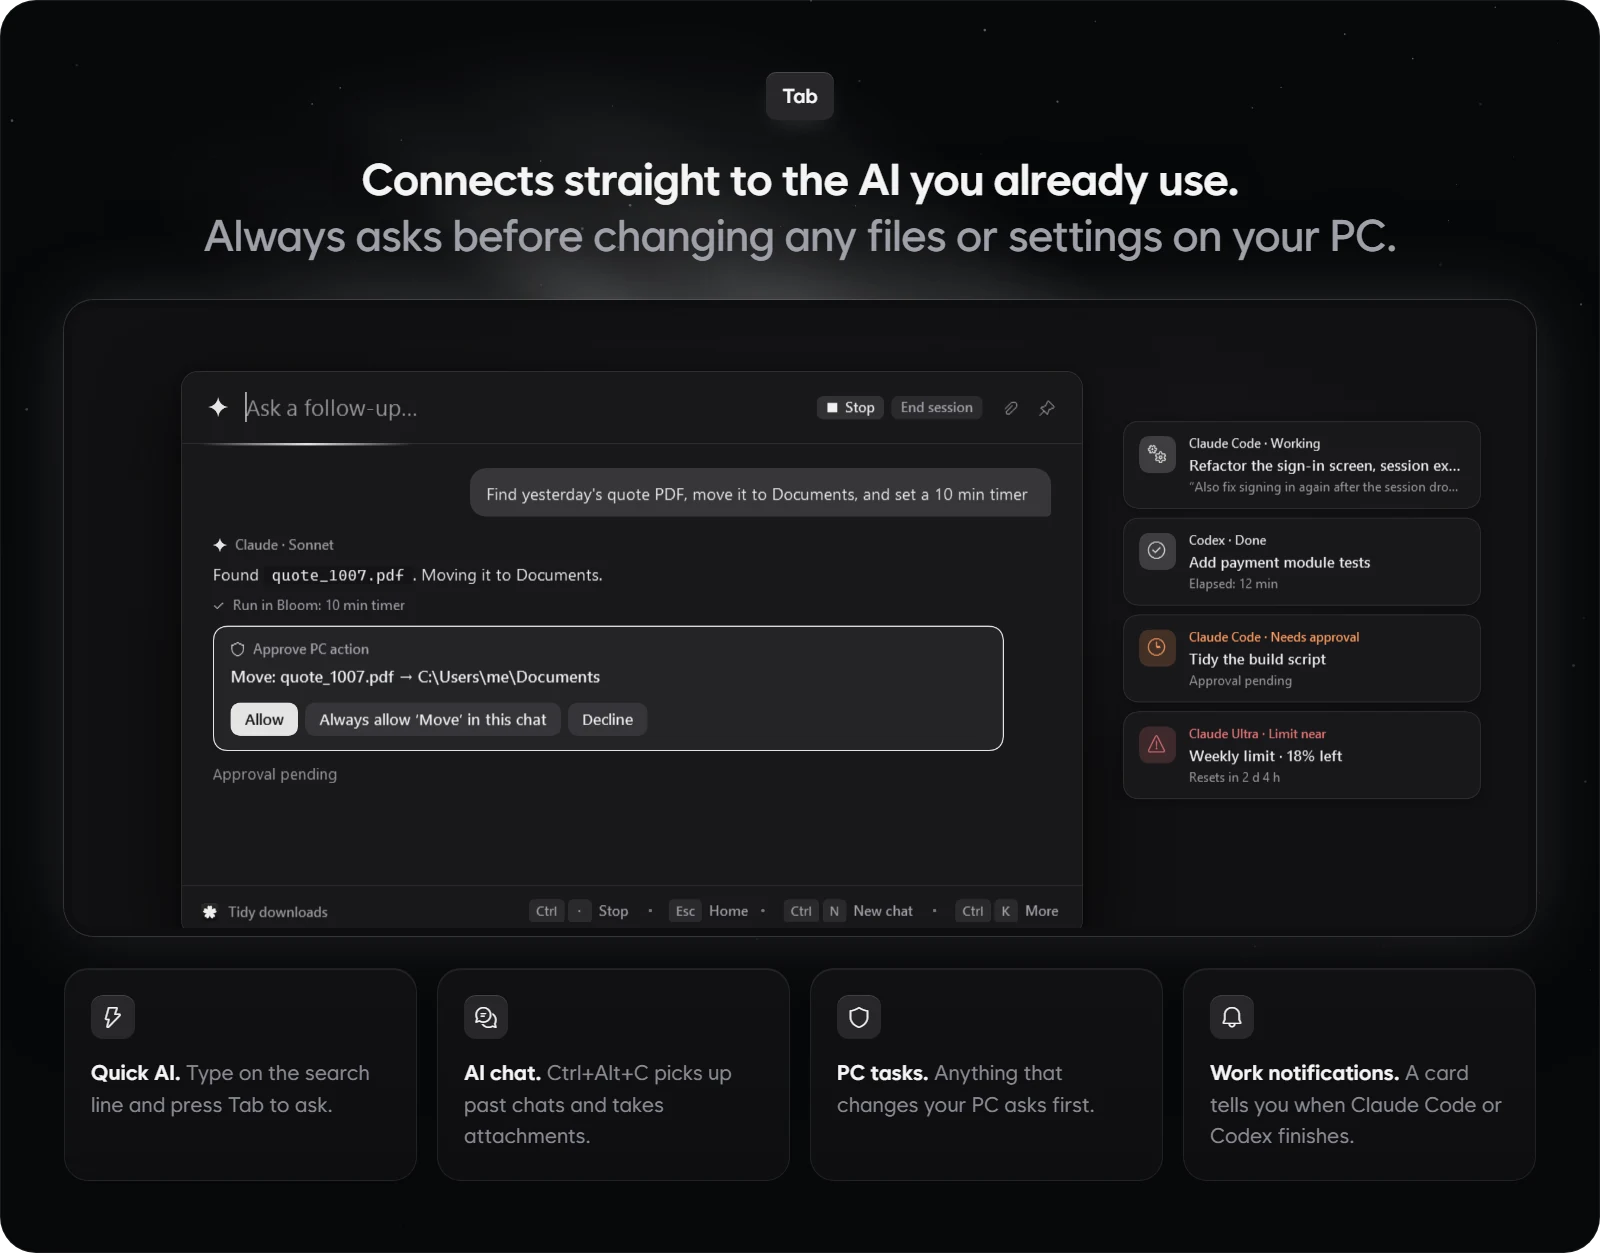
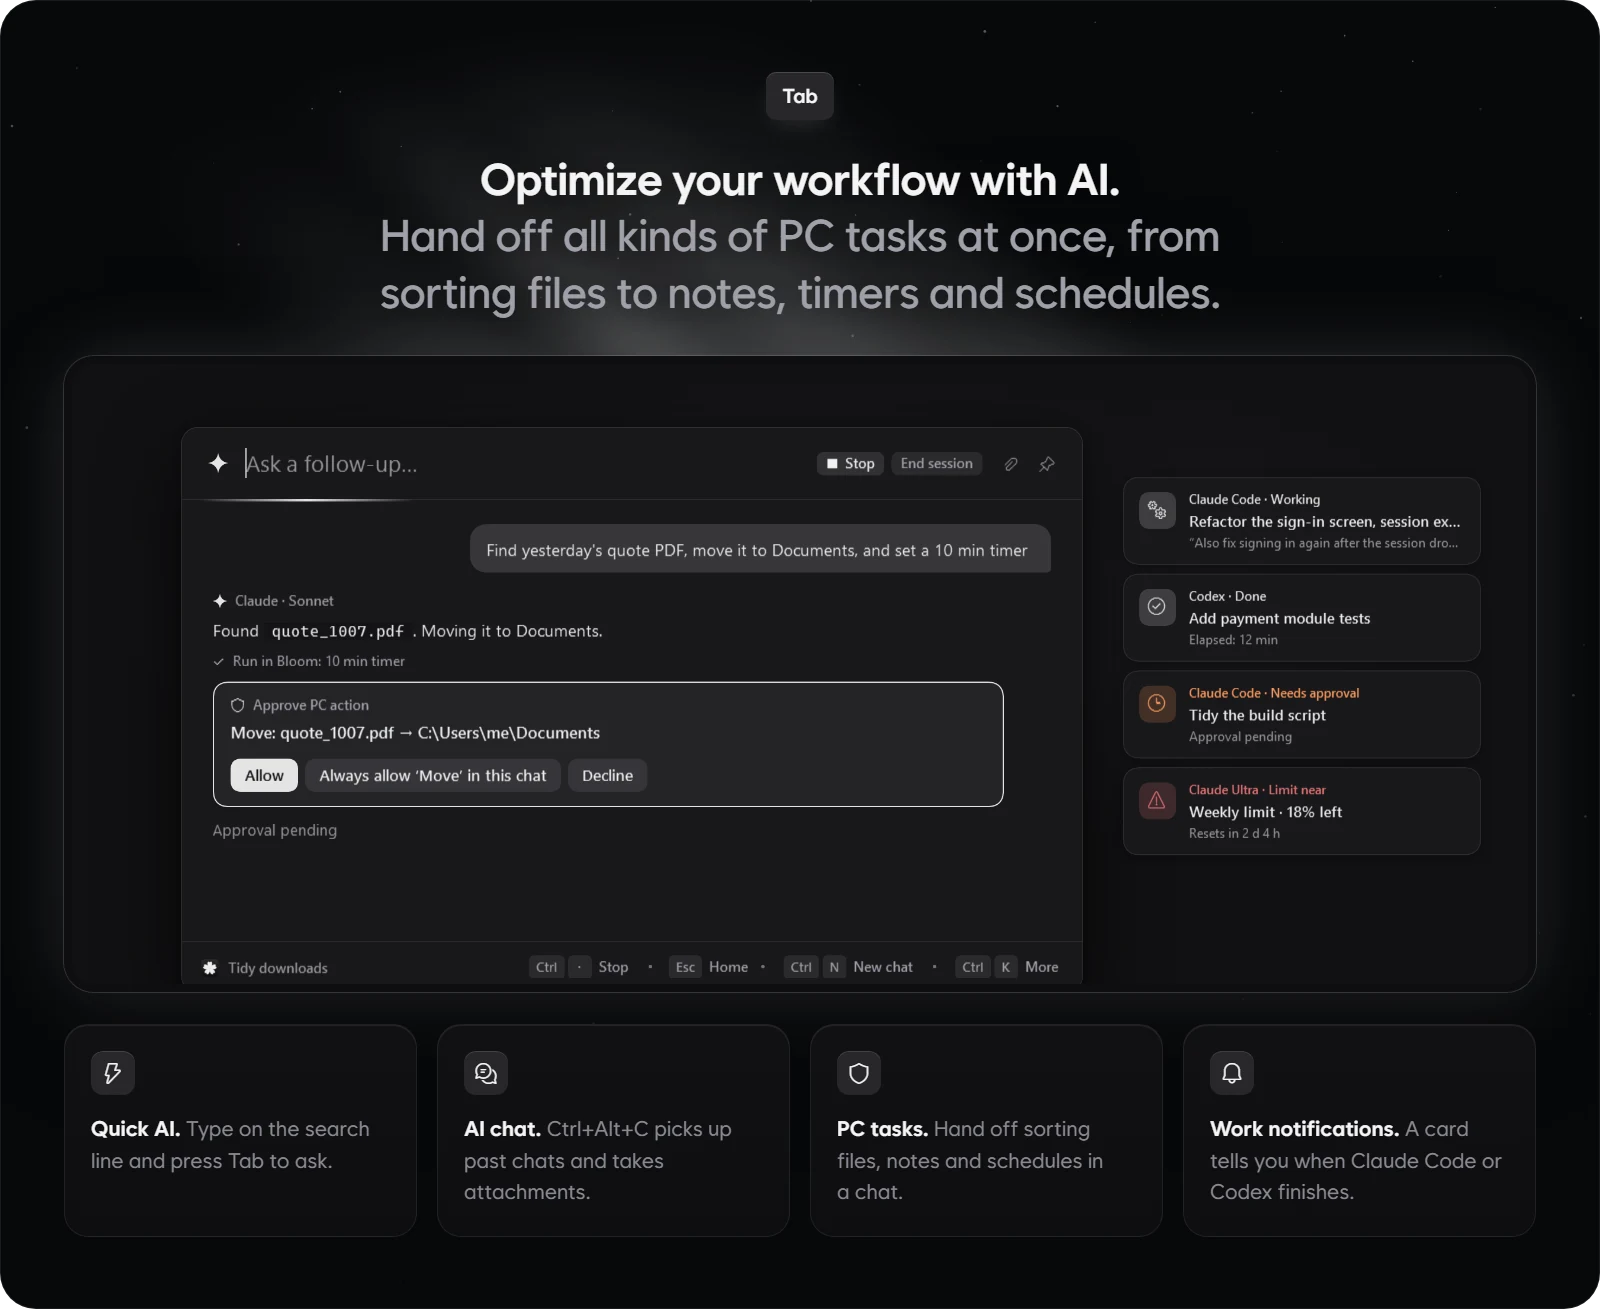
README: board heads in the landing page's words, a board for the AI link map
The AI board now reads as the workflow one from the promo video and the
landing page, and the home, Lens and add-on boards take the landing page's
heads. A new board above it shows the landing page's AI link map (Claude Code,
Codex, omp and API keys into Bloom). Four languages.

diff --git a/README.ja.md b/README.ja.md
@@ -60,6 +60,8 @@ irm https://raw.githubusercontent.com/hyeon1035298/Bloom/main/install.ps1 | iex
 
 ### AI チャット
 
+<img src="docs/media/ja/link.webp" alt="Claude Code、Codex、omp、API キーが Bloom ひとつにつながり、PC の操作、メモとタイマーとカレンダー、AI アクション、作業の通知に分かれる図">
+
 <img src="docs/media/ja/ai.webp" alt="PDF をドキュメントに移す前に許可か拒否かを尋ねるチャットと、Claude Code と Codex の作業の通知カード">
 
 - 検索欄に聞きたいことを書いて Tab を押すと、クイック AI がその場ですぐに答えます。Shift+Tab を押せば、前の文脈を引きずらずに新しいチャットで質問できます。

diff --git a/README.ko.md b/README.ko.md
@@ -60,6 +60,8 @@ irm https://raw.githubusercontent.com/hyeon1035298/Bloom/main/install.ps1 | iex
 
 ### AI 채팅
 
+<img src="docs/media/ko/link.webp" alt="Claude Code, Codex, omp, API 키가 Bloom 하나로 이어지고, PC 작업, 메모와 타이머와 캘린더, AI 빠른 동작, 작업 알림으로 나뉘는 그림">
+
 <img src="docs/media/ko/ai.webp" alt="파일을 옮기기 전에 허용과 거절을 묻는 채팅 카드와, Claude Code와 Codex의 작업 알림 카드들">
 
 - 검색줄에 궁금한 것을 적고 Tab을 누르면 빠른 AI가 그 자리에서 바로 답합니다. Shift+Tab을 누르면 이전 맥락 없이 새 대화로 묻습니다.

diff --git a/README.md b/README.md
@@ -60,6 +60,8 @@ irm https://raw.githubusercontent.com/hyeon1035298/Bloom/main/install.ps1 | iex
 
 ### AI chat
 
+<img src="docs/media/en/link.webp" alt="Claude Code, Codex, omp and API keys run into Bloom, which hands work to PC tasks, notes, timers and calendar, AI actions and work notifications">
+
 <img src="docs/media/en/ai.webp" alt="A chat asking Allow or Decline before it moves a PDF into Documents, and work notification cards for Claude Code and Codex">
 
 - Type a question in the search line and press Tab to get an instant answer from quick AI. Press Shift+Tab to ask in a fresh chat without previous context.

diff --git a/README.zh-CN.md b/README.zh-CN.md
@@ -60,6 +60,8 @@ irm https://raw.githubusercontent.com/hyeon1035298/Bloom/main/install.ps1 | iex
 
 ### AI 聊天
 
+<img src="docs/media/zh/link.webp" alt="Claude Code、Codex、omp 和 API 密钥汇入 Bloom，再分到电脑操作、备忘与计时器和日历、AI 操作、任务通知">
+
 <img src="docs/media/zh/ai.webp" alt="在把 PDF 移到“文档”之前询问允许或拒绝的聊天，以及 Claude Code 和 Codex 的工作通知卡片">
 
 - 在搜索栏输入问题并按 Tab，快速 AI 就会当场作答；按 Shift+Tab 则是不带上下文开启一段新对话。
